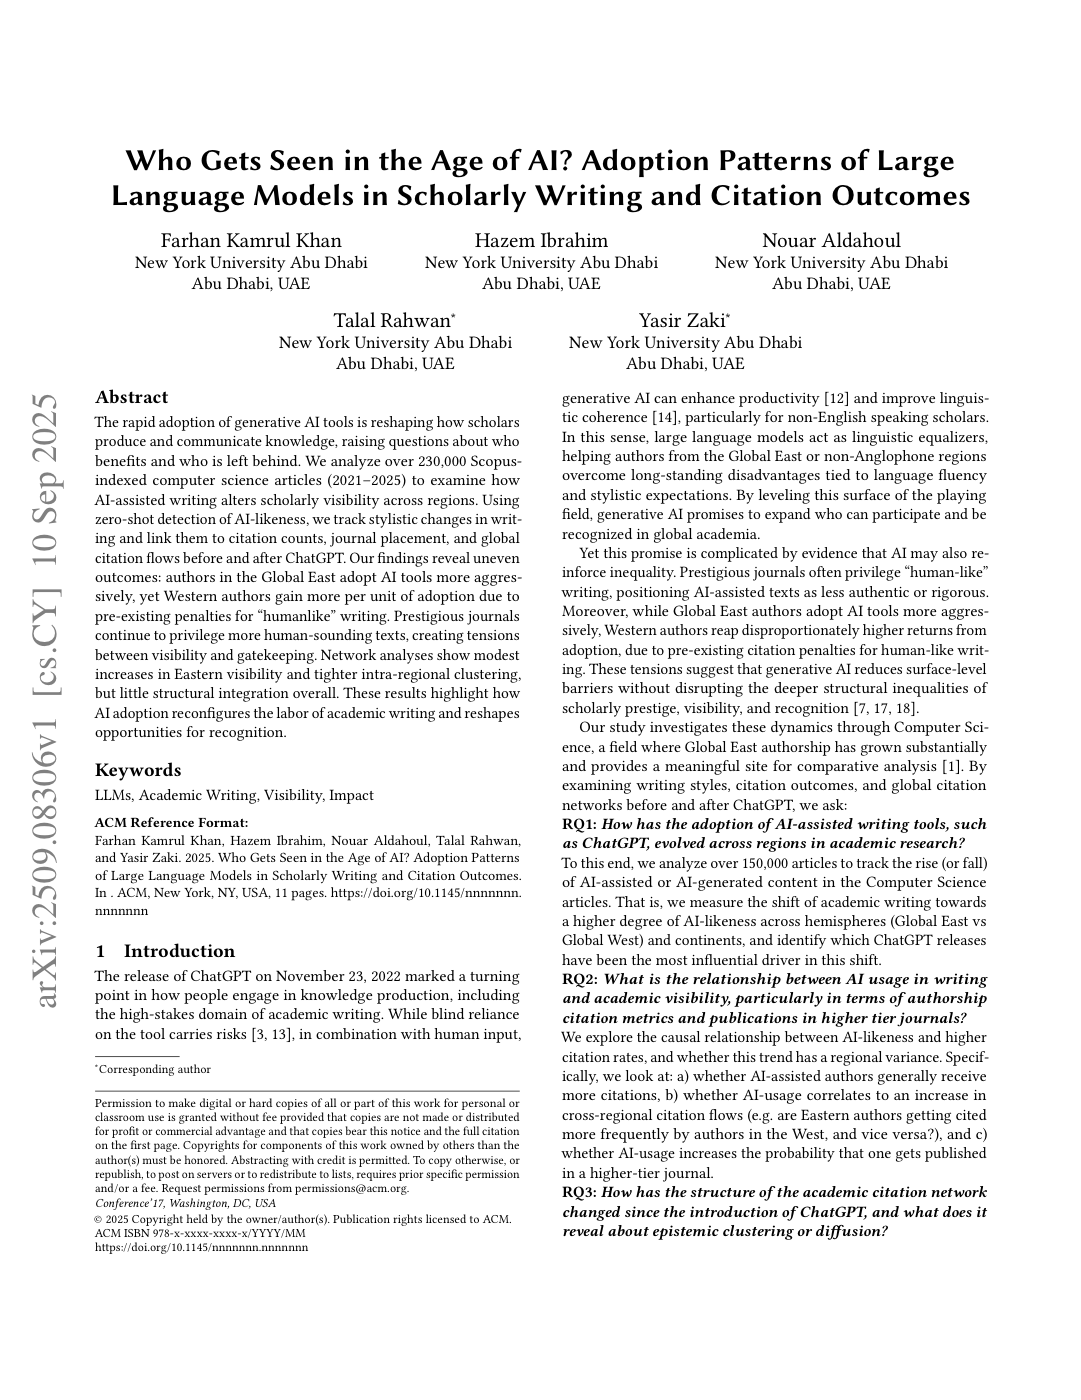
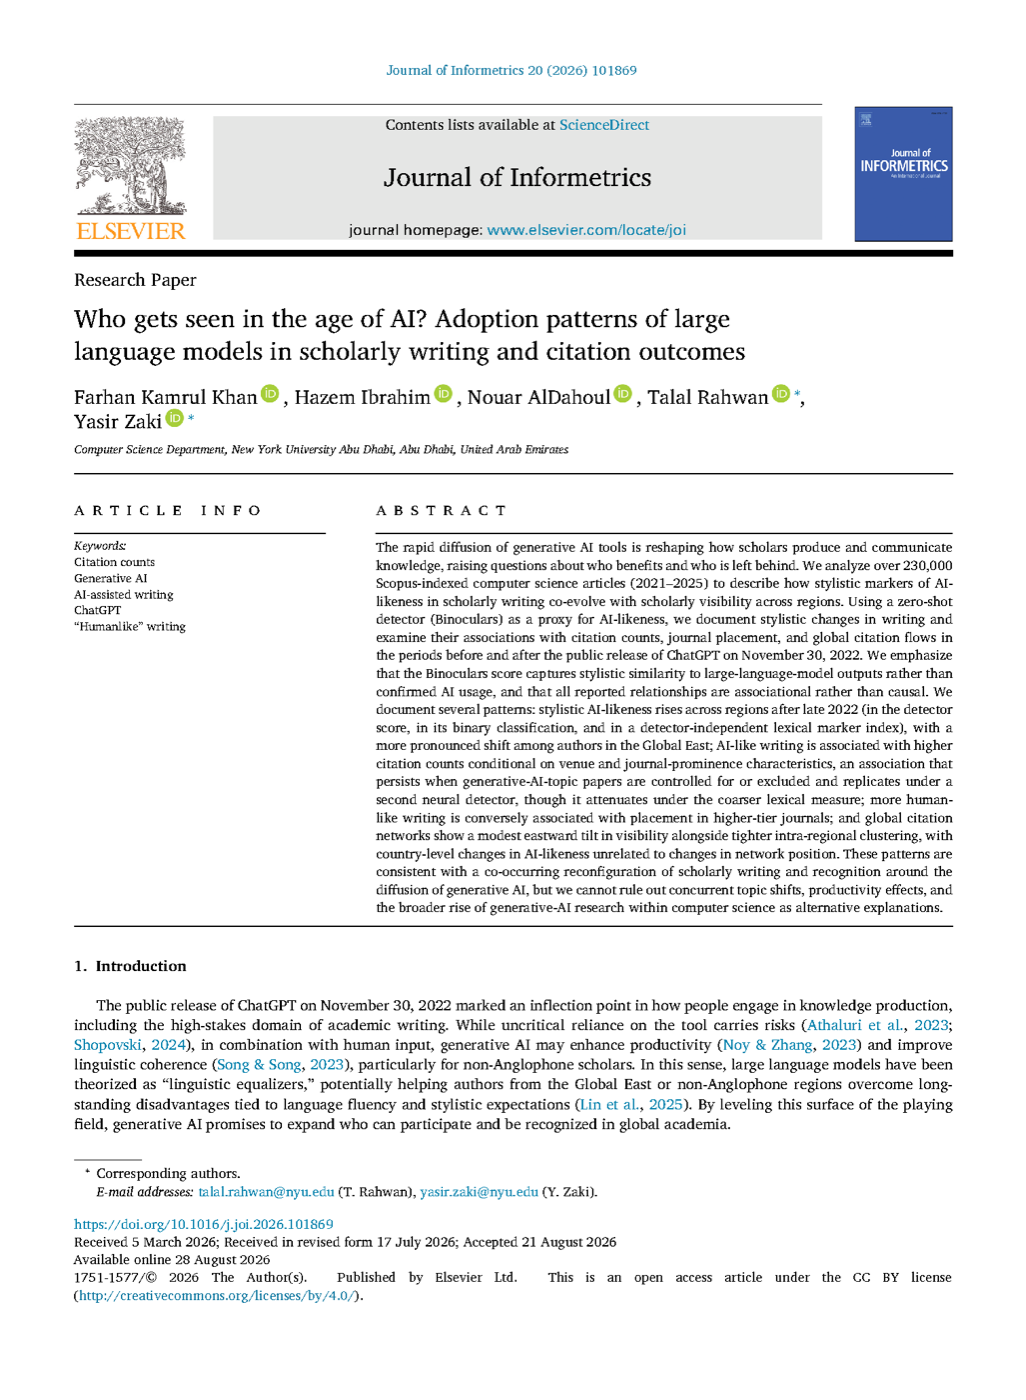
Point Who Gets Seen to published JoI version; update first-page preview

Changed region(s): [[0.0312, 0.0307, 0.9357, 0.9521]]

diff --git a/index.html b/index.html
@@ -359,7 +359,7 @@
                                 <div class="pub-main">
                                     <h3 class="pub-title">
                                         <a
-                                            href="https://arxiv.org/abs/2509.08306"
+                                            href="https://doi.org/10.1016/j.joi.2026.101869"
                                             target="_blank"
                                             rel="noopener"
                                             >Who Gets Seen in the Age of AI?
@@ -428,7 +428,7 @@
                                         </div>
                                         <a
                                             class="pub-link"
-                                            href="https://arxiv.org/abs/2509.08306"
+                                            href="https://doi.org/10.1016/j.joi.2026.101869"
                                             target="_blank"
                                             rel="noopener"
                                             >Read the paper
@@ -439,7 +439,7 @@
                                     </div>
                                     <a
                                         class="pub-thumb"
-                                        href="https://arxiv.org/abs/2509.08306"
+                                        href="https://doi.org/10.1016/j.joi.2026.101869"
                                         target="_blank"
                                         rel="noopener"
                                         tabindex="-1"
